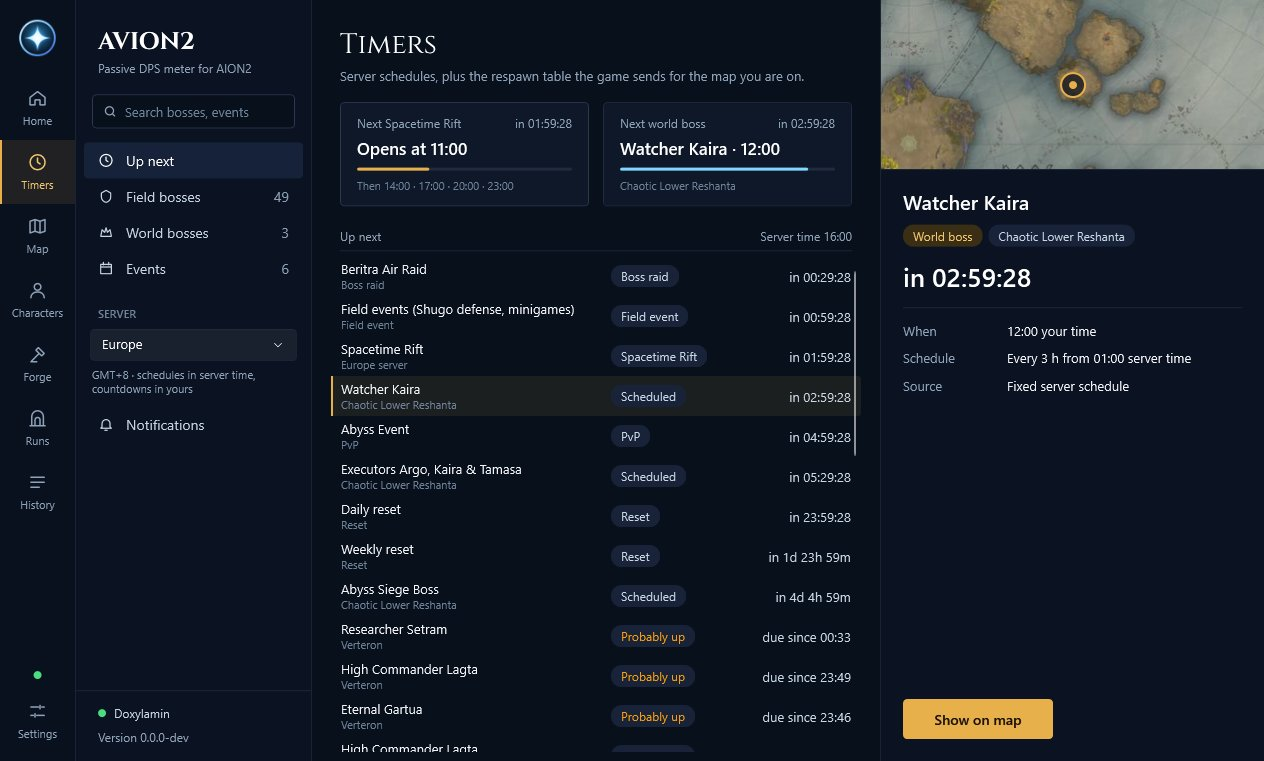
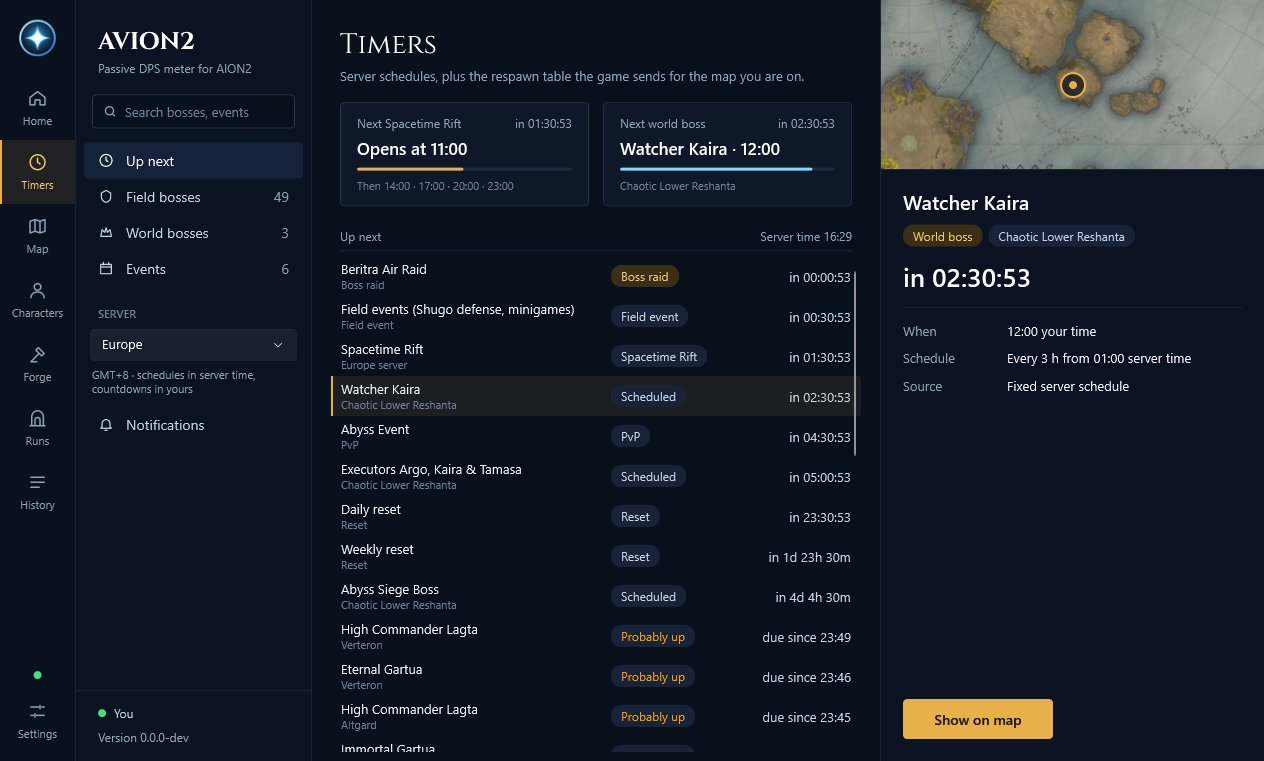
Streamer mode (Settings, General): player, character and legion names show as "You", "Player 2", … and "Legion" in the overlay, HUD effects, fight details, replays, timelines, runs, the map, the home page, the Gear Forge and the Characters page, and the legion card is hidden; fights and runs are sti

diff --git a/src/Avion2.Overlay/CharactersPage.xaml b/src/Avion2.Overlay/CharactersPage.xaml
@@ -8,7 +8,7 @@
                 <Image DockPanel.Dock="Left" Source="{Binding Icon}" Width="22" Height="22" Margin="0,0,10,0" VerticalAlignment="Center"
                        RenderOptions.BitmapScalingMode="HighQuality" />
                 <StackPanel>
-                    <TextBlock Text="{Binding Name}" Foreground="{DynamicResource TextBrush}" FontWeight="SemiBold" TextTrimming="CharacterEllipsis" />
+                    <TextBlock Text="{Binding Shown}" Foreground="{DynamicResource TextBrush}" FontWeight="SemiBold" TextTrimming="CharacterEllipsis" />
                     <TextBlock Text="{Binding Detail}" Foreground="{DynamicResource MutedBrush}" FontSize="11" TextTrimming="CharacterEllipsis" />
                 </StackPanel>
             </DockPanel>
@@ -145,7 +145,7 @@
 
                         <StackPanel Grid.Column="1" VerticalAlignment="Center">
                             <StackPanel Orientation="Horizontal">
-                                <TextBlock Text="{Binding Name}" Style="{StaticResource PageTitle}" VerticalAlignment="Center" />
+                                <TextBlock Text="{Binding Shown}" Style="{StaticResource PageTitle}" VerticalAlignment="Center" />
                                 <Border Style="{StaticResource Pill}" Margin="12,0,0,0" VerticalAlignment="Center"><TextBlock Text="{Binding ServerName}" /></Border>
                                 <Button Style="{StaticResource QuietButton}" Content="Refresh" Margin="8,0,0,0" Padding="12,3" VerticalAlignment="Center"
                                         Click="Refresh_Click" ToolTip="Ask the official AION2 site again (it updates when the character logs out or changes zone)" />

diff --git a/src/Avion2.Overlay/SettingsPage.xaml b/src/Avion2.Overlay/SettingsPage.xaml
@@ -85,6 +85,16 @@
                 </StackPanel>
             </Border>
 
+            <!-- Streamer mode -->
+            <Border Style="{StaticResource SurfaceCard}" Margin="0,0,0,12" Tag="general">
+                <StackPanel>
+                    <TextBlock Text="Streamer mode" Style="{StaticResource Heading}" />
+                    <CheckBox x:Name="StreamerBox" Content="Hide player, character and legion names" />
+                    <TextBlock Style="{StaticResource Hint}"
+                               Text="For streams and screenshots: you show as &quot;You&quot;, other players as &quot;Player 2&quot;, &quot;Player 3&quot; … and every legion as &quot;Legion&quot;, in the overlay, the HUD effects, fights, replays, runs, the map and on the Characters page; the legion card is hidden. Fights and runs are still saved with the real names." />
+                </StackPanel>
+            </Border>
+
             <!-- Timers -->
             <Border Style="{StaticResource SurfaceCard}" Margin="0,0,0,12" Tag="alerts">
                 <StackPanel>

diff --git a/site/index.html b/site/index.html
@@ -219,7 +219,8 @@
         <img src="img/home-void.jpg" width="1264" height="560" alt="AVION2's home page in the VOID theme: last fight, next timers and your character" loading="lazy" decoding="async">
         <div>
           <h3>Two themes</h3>
-          <p>An AION2 look and the VOID theme. Skill and monster names in 10 languages.</p>
+          <p>An AION2 look and the VOID theme. Skill and monster names in 10 languages. A streamer mode shows every
+            player, character and legion name as a stand-in, for streams and screenshots.</p>
         </div>
       </article>
     </section>

diff --git a/src/Avion2.Overlay/HomePage.xaml.cs b/src/Avion2.Overlay/HomePage.xaml.cs
@@ -46,6 +46,11 @@ public partial class HomePage : UserControl
 
         state.MeterStateChanged += Refresh;
         state.LegionUpdated += RefreshLegion;
+        StreamerMode.Changed += () =>
+        {
+            RefreshCharacter();
+            RefreshLegion();
+        };
         state.UpdateAvailableChanged += RefreshUpdate;
         state.Fights.CollectionChanged += (_, _) => RefreshRecent();
         state.InventoryUpdated += RefreshCharacter;
@@ -128,7 +133,7 @@ public partial class HomePage : UserControl
             StatusDot.SetResourceReference(System.Windows.Shapes.Shape.FillProperty, "LiveBrush");
             StatusTitle.Text = "Capturing · connected";
             string who = status.SelfName is { } name
-                ? $"{name} · {status.SelfClass}"
+                ? $"{StreamerMode.Name(name, self: true)} · {status.SelfClass}"
                 : status.SelfClass != GameClass.Unknown ? $"You · {status.SelfClass}" : "waiting for your character";
             StatusDetail.Text = $"{who} · {status.GamePackets:N0} game packets" +
                                 (status.Recorded > 0 ? $" · recording ({status.Recorded:N0} frames)" : string.Empty);
@@ -166,13 +171,13 @@ public partial class HomePage : UserControl
         var characters = new CharacterStore().Characters;
         CharactersValue.Text = characters.Count == 0
             ? "None yet: teleport once in game"
-            : string.Join("\n", characters.Take(3).Select(c => $"{c.Name} · {c.Class}"));
+            : string.Join("\n", characters.Take(3).Select(c => $"{StreamerMode.Name(c.Name)} · {c.Class}"));
         if (_state.Inventory is { IsKnown: true } inventory)
         {
             Wallet.Visibility = Visibility.Visible;
             KinahValue.Text = inventory.Kinah.ToString("N0", System.Globalization.CultureInfo.InvariantCulture);
             StonesValue.Text = inventory.Count(Avion2.Analysis.ItemIds.EnhanceStone).ToString("N0", System.Globalization.CultureInfo.InvariantCulture);
-            InventoryAge.Text = inventory.Character is { } who ? who : string.Empty;
+            InventoryAge.Text = inventory.Character is { } who ? StreamerMode.Name(who) : string.Empty;
         }
         else
         {
@@ -269,7 +274,7 @@ public partial class HomePage : UserControl
     /// <summary>Our legion: name, leader, introduction and who logged in last (saved between sessions).</summary>
     private void RefreshLegion()
     {
-        if (_state.Legion is not { IsKnown: true } legion)
+        if (_state.Legion is not { IsKnown: true } legion || StreamerMode.On)
         {
             LegionCard.Visibility = Visibility.Collapsed;
             return;

diff --git a/src/Avion2.Overlay/ReplayView.cs b/src/Avion2.Overlay/ReplayView.cs
@@ -410,7 +410,7 @@ public sealed class ReplayView : FrameworkElement
             y += 5;
         }
 
-        var name = text(self ? "You" : e.Name, 11, self ? new SolidColorBrush(accent) : ink, false);
+        var name = text(self ? "You" : StreamerMode.Name(e), 11, self ? new SolidColorBrush(accent) : ink, false);
         dc.DrawText(name, new Point(at.X - name.Width / 2, y));
     }
 
@@ -441,7 +441,7 @@ public sealed class ReplayView : FrameworkElement
         DrawBuffPips(dc, trace, e.Id, new Point(at.X, at.Y + r + 10), t);
 
         // Name, and the skill it is casting above it
-        var name = text(e.Name, 12, Brushes.White, true);
+        var name = text(StreamerMode.Name(e), 12, Brushes.White, true);
         double top = at.Y - r - 12 - name.Height;
         dc.DrawText(name, new Point(at.X - name.Width / 2, top));
         if (trace.Casts.LastOrDefault(c => c.ActorId == e.Id && c.T <= t && c.T > t - CastLabelMs) is { } cast &&
@@ -536,13 +536,13 @@ public sealed class ReplayView : FrameworkElement
         Func<string, double, Brush, bool, FormattedText> text, Brush muted, Brush ink)
     {
         static string K(long v) => v >= 10_000 ? (v / 1000.0).ToString("0.#", CultureInfo.InvariantCulture) + "K" : v.ToString("N0", CultureInfo.InvariantCulture);
-        string legion = e.Legion is { Length: > 0 } l ? $" ‹{l}›" : string.Empty;
+        string legion = StreamerMode.Legion(e.Legion) is { Length: > 0 } l ? $" ‹{l}›" : string.Empty;
         string kind = e.Kind switch
         {
             TraceEntityKind.Self => $"You · {e.Class}{legion}",
             TraceEntityKind.Player => (e.Class == GameClass.Unknown ? "Player" : $"Player · {e.Class}") + legion,
             TraceEntityKind.Boss => "Boss",
-            TraceEntityKind.Summon => $"Summon of {(e.OwnerId is { } o && _byId.TryGetValue(o, out var owner) ? owner.Name : "?")}",
+            TraceEntityKind.Summon => $"Summon of {(e.OwnerId is { } o && _byId.TryGetValue(o, out var owner) ? StreamerMode.Name(owner) : "?")}",
             _ => "Monster",
         };
 
@@ -583,7 +583,7 @@ public sealed class ReplayView : FrameworkElement
             lines.Add(("Effects: " + string.Join(", ", buffs), muted));
         }
 
-        var title = text(e.Kind == TraceEntityKind.Self ? $"{e.Name} (you)" : e.Name, 13, ink, true);
+        var title = text(StreamerMode.Titled(e), 13, ink, true);
         var formatted = lines.Select(x => text(x.Text, 11, x.Brush, false)).ToList();
         foreach (var f in formatted)
         {

diff --git a/src/Avion2.Overlay/OverlayViewModel.cs b/src/Avion2.Overlay/OverlayViewModel.cs
@@ -39,6 +39,9 @@ public sealed class PlayerCard(uint actorId) : Bindable
     /// <summary>The player's server, for the armory (null while unknown).</summary>
     public ushort? ServerId { get; set; }
 
+    /// <summary>The real name, for the armory (<see cref="Name"/> is a stand-in in streamer mode).</summary>
+    public string RealName { get; set; } = string.Empty;
+
     public int Rank { get => _rank; set => Set(ref _rank, value); }
     public string Name { get => _name; set => Set(ref _name, value); }
     public string Emblem { get => _emblem; set => Set(ref _emblem, value); }
@@ -361,7 +364,7 @@ public sealed class OverlayViewModel : Bindable
         Status = status.Locked ? (status.InCombat ? "LIVE" : "IDLE") : "SEARCHING";
         UpdateLag(status.ServerSilenceMs);
         string self = status.SelfName is { } name
-            ? $"{name} · {status.SelfClass}" + (status.SelfNameIsGuess ? " (last session)" : string.Empty)
+            ? $"{StreamerMode.Name(name, self: true)} · {status.SelfClass}" + (status.SelfNameIsGuess ? " (last session)" : string.Empty)
             : status.SelfClass != GameClass.Unknown ? $"You · {status.SelfClass} (teleport once to show your name)"
             : "Waiting for your character…";
         Footer = status.Locked ? self : status.Message;
@@ -426,7 +429,7 @@ public sealed class OverlayViewModel : Bindable
     /// <summary>"‹Legion›", plus the server for players from another one ("‹Legion› · Agnita").</summary>
     private static string LegionAndServer(MeterRow row, ushort? ourServer)
     {
-        string legion = row.Legion is { Length: > 0 } name ? $"‹{name}›" : string.Empty;
+        string legion = StreamerMode.Legion(row.Legion) is { Length: > 0 } name ? $"‹{name}›" : string.Empty;
         if (row.IsSelf || row.ServerId is not { } server || server == ourServer || ourServer is null ||
             Avion2.Engine.BundledGameData.Server(server) is not { } info)
         {
@@ -516,7 +519,8 @@ public sealed class OverlayViewModel : Bindable
 
     private static void Fill(PlayerCard card, string name, GameClass cls, bool isSelf, uint? combatPower)
     {
-        card.Name = name;
+        card.RealName = name;
+        card.Name = StreamerMode.Name(name, isSelf);
         card.Emblem = Emblems[cls];
         card.Icon = ClassIcons.For(cls);
         card.ClassBrush = SolidBrushes[cls];

diff --git a/src/Avion2.Overlay/CharactersPage.xaml.cs b/src/Avion2.Overlay/CharactersPage.xaml.cs
@@ -38,6 +38,23 @@ public partial class CharactersPage : UserControl
             }
         };
         ShowMessage("Pick a character on the left, or look one up by name.");
+        StreamerMode.Changed += () =>
+        {
+            foreach (var list in new[] { Mine, Results })
+            {
+                foreach (var row in list.ItemsSource as IEnumerable<CharacterRow> ?? [])
+                {
+                    row.Restate();
+                }
+            }
+
+            if (_sheet is { } sheet)
+            {
+                DataContext = null;
+                DataContext = sheet;
+                ShowTab();
+            }
+        };
     }
 
     private sealed record ServerChoice(ushort Id, string Label);
@@ -136,7 +153,7 @@ public partial class CharactersPage : UserControl
             return;
         }
 
-        ResultsLabel.Text = hits.Count == 0 ? $"NO ONE NAMED {name.ToUpperInvariant()} ON {server.Label.Split(' ')[0].ToUpperInvariant()}" : "RESULTS";
+        ResultsLabel.Text = hits.Count == 0 ? $"NO ONE NAMED {StreamerMode.Name(name).ToUpperInvariant()} ON {server.Label.Split(' ')[0].ToUpperInvariant()}" : "RESULTS";
         var rows = hits.Select(h => new CharacterRow(h.Name, h.ServerId, Protocol.GameClass.Unknown,
             $"Level {h.Level} · {(h.ServerName.Length > 0 ? h.ServerName : ServerName(h.ServerId))}")).ToList();
         Results.ItemsSource = rows;
@@ -159,7 +176,7 @@ public partial class CharactersPage : UserControl
         _current = (name, serverId);
         if (_sheet is null || !string.Equals(_sheet.Name, name, StringComparison.OrdinalIgnoreCase) || _sheet.Profile.ServerId != serverId)
         {
-            ShowMessage($"Loading {name}…");
+            ShowMessage($"Loading {StreamerMode.Name(name)}…");
         }
         else
         {
@@ -174,7 +191,7 @@ public partial class CharactersPage : UserControl
 
         if (lookup.Profile is not { } profile)
         {
-            ShowMessage(lookup.Problem ?? $"No character named {name}.");
+            ShowMessage(lookup.Problem?.Replace(name, StreamerMode.Name(name), StringComparison.Ordinal) ?? $"No character named {StreamerMode.Name(name)}.");
             return;
         }
 

diff --git a/src/Avion2.Overlay/CharacterSheet.cs b/src/Avion2.Overlay/CharacterSheet.cs
@@ -13,9 +13,16 @@ public sealed class CharacterRow(string name, ushort serverId, GameClass cls, st
     private string _detail = detail;
 
     public string Name { get; } = name;
+
+    /// <summary>The name as shown (a stand-in in streamer mode).</summary>
+    public string Shown => StreamerMode.Name(Name);
+
     public ushort ServerId { get; } = serverId;
     public ImageSource? Icon { get; } = ClassIcons.For(cls);
     public string Detail { get => _detail; set => Set(ref _detail, value); }
+
+    /// <summary>Streamer mode was switched: show the name again.</summary>
+    public void Restate() => OnPropertyChanged(nameof(Shown));
 }
 
 /// <summary>An item, skin or skill as a card: icon, name in its grade color, a line below.</summary>
@@ -36,6 +43,9 @@ public sealed class CharacterSheet(ArmoryProfile profile)
 
     public ArmoryProfile Profile { get; } = profile;
     public string Name => Profile.Name;
+
+    /// <summary>The name as shown (a stand-in in streamer mode).</summary>
+    public string Shown => StreamerMode.Name(Profile.Name);
     public string ServerName => Profile.ServerName;
     public string Level => Profile.Level.ToString(CultureInfo.InvariantCulture);
     public ImageSource? Portrait { get; } = WebImage(profile.ImageUrl, 180);
@@ -44,7 +54,7 @@ public sealed class CharacterSheet(ArmoryProfile profile)
     public string ClassLine => $"{Profile.ClassName}  ·  {Profile.Race}";
     public string ItemLevel => Profile.ItemLevel?.ToString("N0", CultureInfo.InvariantCulture) ?? "?";
     public string CombatPower => Profile.CombatPower.ToString("N0", CultureInfo.InvariantCulture);
-    public string Legion => Profile.Legion is { } legion ? $"‹{legion}›" : string.Empty;
+    public string Legion => StreamerMode.Legion(Profile.Legion) is { } legion ? $"‹{legion}›" : string.Empty;
 
     /// <summary>"64,358 CP · iLvl 1,415": for the sidebar.</summary>
     public string Summary => $"{CombatPower} CP · iLvl {ItemLevel}";

diff --git a/src/Avion2.Overlay/StreamerMode.cs b/src/Avion2.Overlay/StreamerMode.cs
@@ -1,0 +1,42 @@
+using Avion2.Analysis;
+using Avion2.Engine;
+
+namespace Avion2.Overlay;
+
+/// <summary>
+/// Streamer mode (Settings): player, character and legion names show as stand-ins everywhere in the app, for
+/// streams and screenshots. Fights, runs and the legion are still saved with the real names.
+/// </summary>
+public static class StreamerMode
+{
+    public static NameMask Names { get; } = new();
+
+    public static bool On => Names.On;
+
+    /// <summary>Raised when streamer mode is switched; views that don't refresh by themselves redraw.</summary>
+    public static event Action? Changed;
+
+    public static void Set(bool on)
+    {
+        if (Names.On != on)
+        {
+            Names.On = on;
+            Changed?.Invoke();
+        }
+    }
+
+    public static string Name(string name, bool self = false) => Names.Name(name, self);
+
+    public static string? Legion(string? legion) => Names.Legion(legion);
+
+    /// <summary>Players only: bosses, monsters and summons keep their names.</summary>
+    public static string Name(TraceEntity e) =>
+        e.Kind is TraceEntityKind.Self or TraceEntityKind.Player ? Name(e.Name, e.Kind == TraceEntityKind.Self) : e.Name;
+
+    /// <summary>"Name (you)" for our character, just "You" in streamer mode.</summary>
+    public static string Titled(TraceEntity e) =>
+        e.Kind == TraceEntityKind.Self && !On ? $"{e.Name} (you)" : Name(e);
+
+    public static string Name(LiveEntity e) =>
+        e.Kind is LiveKind.Self or LiveKind.Player ? Name(e.Name, e.Kind == LiveKind.Self) : e.Name;
+}

diff --git a/src/Avion2.Overlay/DetailView.xaml.cs b/src/Avion2.Overlay/DetailView.xaml.cs
@@ -329,7 +329,7 @@ public partial class DetailView : UserControl
             var color = ScrubberView.LaneColor(e, accent);
             double share = d.Value / (double)total;
             string who = e.Class == Avion2.Protocol.GameClass.Unknown ? string.Empty : $"{e.Class} · ";
-            return new PlayheadRow(e.Kind == TraceEntityKind.Self ? "You" : e.Name, who + share.ToString("P0", CultureInfo.InvariantCulture),
+            return new PlayheadRow(e.Kind == TraceEntityKind.Self ? "You" : StreamerMode.Name(e), who + share.ToString("P0", CultureInfo.InvariantCulture),
                 (d.Value / seconds).ToString("N0", CultureInfo.InvariantCulture), share, Brush(color), Brush(color, 0x38), e.Kind == TraceEntityKind.Self);
         }).ToList();
 
@@ -339,7 +339,7 @@ public partial class DetailView : UserControl
         {
             var e = players[Owner(h.ActorId)];
             string skill = Names.SkillName(h.SkillId);
-            string text = e.Kind == TraceEntityKind.Self ? skill : $"{e.Name} · {skill}";
+            string text = e.Kind == TraceEntityKind.Self ? skill : $"{StreamerMode.Name(e)} · {skill}";
             return new HitLine(TimeSpan.FromMilliseconds(Math.Max(0, h.T)).ToString(@"m\:ss\.f", CultureInfo.InvariantCulture), text,
                 h.Amount.ToString("N0", CultureInfo.InvariantCulture), Brush(ScrubberView.LaneColor(e, accent)), h.Critical ? critBrush : plain);
         }).ToList();

diff --git a/src/Avion2.Overlay/TimelineView.cs b/src/Avion2.Overlay/TimelineView.cs
@@ -158,7 +158,7 @@ public sealed class TimelineView : FrameworkElement
 
             dc.DrawLine(tickPen, new Point(0, top + LaneHeight), new Point(RenderSize.Width, top + LaneHeight));
             var nameBrush = entity.Kind == TraceEntityKind.Boss ? new SolidColorBrush(Color.FromRgb(0xF0, 0x58, 0x4F)) : text;
-            var label = Text(entity.Kind == TraceEntityKind.Self ? $"{entity.Name} (you)" : entity.Name, 12, nameBrush);
+            var label = Text(StreamerMode.Titled(entity), 12, nameBrush);
             label.MaxTextWidth = LabelWidth - 12;
             label.Trimming = TextTrimming.CharacterEllipsis;
             label.MaxLineCount = 1;
@@ -178,7 +178,7 @@ public sealed class TimelineView : FrameworkElement
                 string skill = Data.SkillName(cast.SkillId);
                 _hitBoxes.Add((new Rect(x - 4, top, 8, LaneHeight),
                     $"{TimeSpan.FromMilliseconds(Math.Max(cast.T, 0)):m\\:ss\\.f} · {skill}" +
-                    (cast.ActorId != entity.Id ? $" ({trace.Entity(cast.ActorId)?.Name})" : string.Empty)));
+                    (cast.ActorId != entity.Id ? $" ({(trace.Entity(cast.ActorId) is { } actor ? StreamerMode.Name(actor) : null)})" : string.Empty)));
             }
         }
 

diff --git a/src/Avion2.Overlay/MainWindow.xaml.cs b/src/Avion2.Overlay/MainWindow.xaml.cs
@@ -315,7 +315,7 @@ public partial class MainWindow : Window
     /// <summary>Right-click on a player: their armory page, or the fight details.</summary>
     private void Row_RightClick(object sender, MouseButtonEventArgs e)
     {
-        if (sender is not FrameworkElement { DataContext: PlayerCard card } element || card.Name.Length == 0)
+        if (sender is not FrameworkElement { DataContext: PlayerCard card } element || card.RealName.Length == 0)
         {
             return;
         }
@@ -327,7 +327,7 @@ public partial class MainWindow : Window
             IsEnabled = server is { } id && ArmoryClient.RegionCode(id) is not null,
             ToolTip = "Combat power, item level and gear from the official AION2 site",
         };
-        armory.Click += (_, _) => _state.ShowCharacter(card.Name, server!.Value);
+        armory.Click += (_, _) => _state.ShowCharacter(card.RealName, server!.Value);
         var details = new MenuItem { Header = "Fight details" };
         details.Click += (_, _) => OpenDetails(card.ActorId, _vm.Tab == OverlayTab.Taken ? 1 : 0);
         element.ContextMenu = new ContextMenu { Items = { armory, details }, PlacementTarget = element, IsOpen = true };
